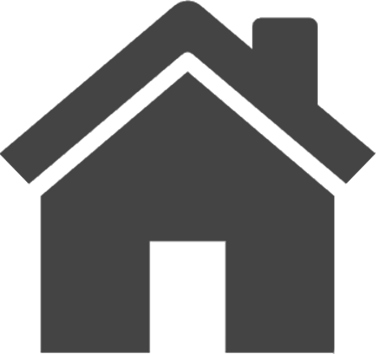
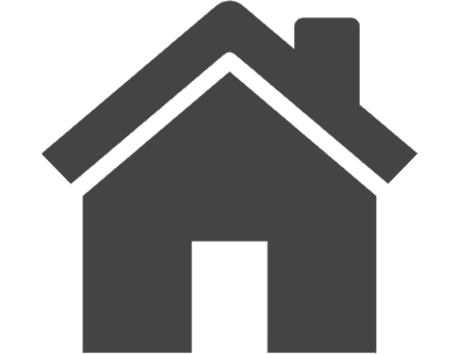
[UPDATE] images adjusted from toolbar.

Changed region(s): [[0.0, 0.0, 1.0, 1.0], [0.3803, 0.6836, 0.4388, 1.0], [0.5559, 0.6836, 0.6144, 1.0]]

diff --git a/views/toolbar.py b/views/toolbar.py
@@ -102,28 +102,35 @@ class Toolbar(tk.Frame, Methods):
 
         self.tool = tk.Frame(self.parent, bd=1, relief=tk.RAISED)
 
-        iconHome = self.getImage("views/images/homeIcon.png")
-        iconAdd = self.getImage("views/images/add-viviendo.png")
+        iconHome = self.getImage("views/images/homeIcon.png", 37, 30)
+        iconAdd = self.getImage("views/images/add-viviendo.png", 35, 30)
         iconAddUser = self.getImage("views/images/add-user.png")
+        iconShow = self.getImage("views/images/show-viviendo.png", 40, 33)
         iconListUser = self.getImage("views/images/user-list-icons.png")
         iconProfile = self.getImage("views/images/user-information-icon.png")
-        iconShow = self.getImage("views/images/show-viviendo.png")
         iconExit = self.getImage("views/images/exit.png")
 
-        homeButton = tk.Button(self.tool, text='Inicio', image=iconHome, relief=tk.FLAT,
-            command=self.home, compound=tk.LEFT, font="Helvetica 10 bold")
-        addButton = tk.Button(self.tool, text='Nuevo', image=iconAdd, relief=tk.FLAT,
-            command=self.formViviendo, compound=tk.LEFT, font="Helvetica 10 bold")
-        showButton = tk.Button(self.tool, text='Buscar', image=iconShow, relief=tk.FLAT,
-            command=self.formSearch, compound=tk.LEFT, font="Helvetica 10 bold")
-        showProfile = tk.Button(self.tool, text='Perfil', image=iconProfile, relief=tk.FLAT,
-            command=self.formSearch, compound=tk.LEFT, font="Helvetica 10 bold")
-        addUserButton = tk.Button(self.tool, text='Nuevo User', image=iconAddUser, relief=tk.FLAT,
-            command=self.formRegister, compound=tk.LEFT, font="Helvetica 10 bold")
-        listUsersButton = tk.Button(self.tool, text='Users', image=iconListUser, relief=tk.FLAT,
-            command=self.users_list, compound=tk.LEFT, font="Helvetica 10 bold")
-        exitButton = tk.Button(self.tool, text='Salir', image=iconExit, relief=tk.FLAT,
-            command=self.exit, compound=tk.LEFT, font="Helvetica 10 bold")
+        homeButton = tk.Button(self.tool, text='Inicio', image=iconHome,
+            relief=tk.FLAT, command=self.home, compound=tk.LEFT,
+            font="Helvetica 10 bold")
+        addButton = tk.Button(self.tool, text='Nuevo', image=iconAdd,
+            relief=tk.FLAT, command=self.formViviendo, compound=tk.LEFT,
+            font="Helvetica 10 bold")
+        showButton = tk.Button(self.tool, text='Buscar', image=iconShow,
+            relief=tk.FLAT, command=self.formSearch, compound=tk.LEFT,
+            font="Helvetica 10 bold")
+        showProfile = tk.Button(self.tool, text='Perfil', image=iconProfile,
+            relief=tk.FLAT, command=self.formSearch, compound=tk.LEFT,
+            font="Helvetica 10 bold")
+        addUserButton = tk.Button(self.tool, text='Nuevo User', image=iconAddUser,
+            relief=tk.FLAT, command=self.formRegister, compound=tk.LEFT,
+            font="Helvetica 10 bold")
+        listUsersButton = tk.Button(self.tool, text='Users', image=iconListUser,
+            relief=tk.FLAT, command=self.users_list, compound=tk.LEFT,
+            font="Helvetica 10 bold")
+        exitButton = tk.Button(self.tool, text='Salir', image=iconExit,
+            relief=tk.FLAT, command=self.exit, compound=tk.LEFT,
+            font="Helvetica 10 bold")
 
         # Packs
         homeButton.image = iconHome
